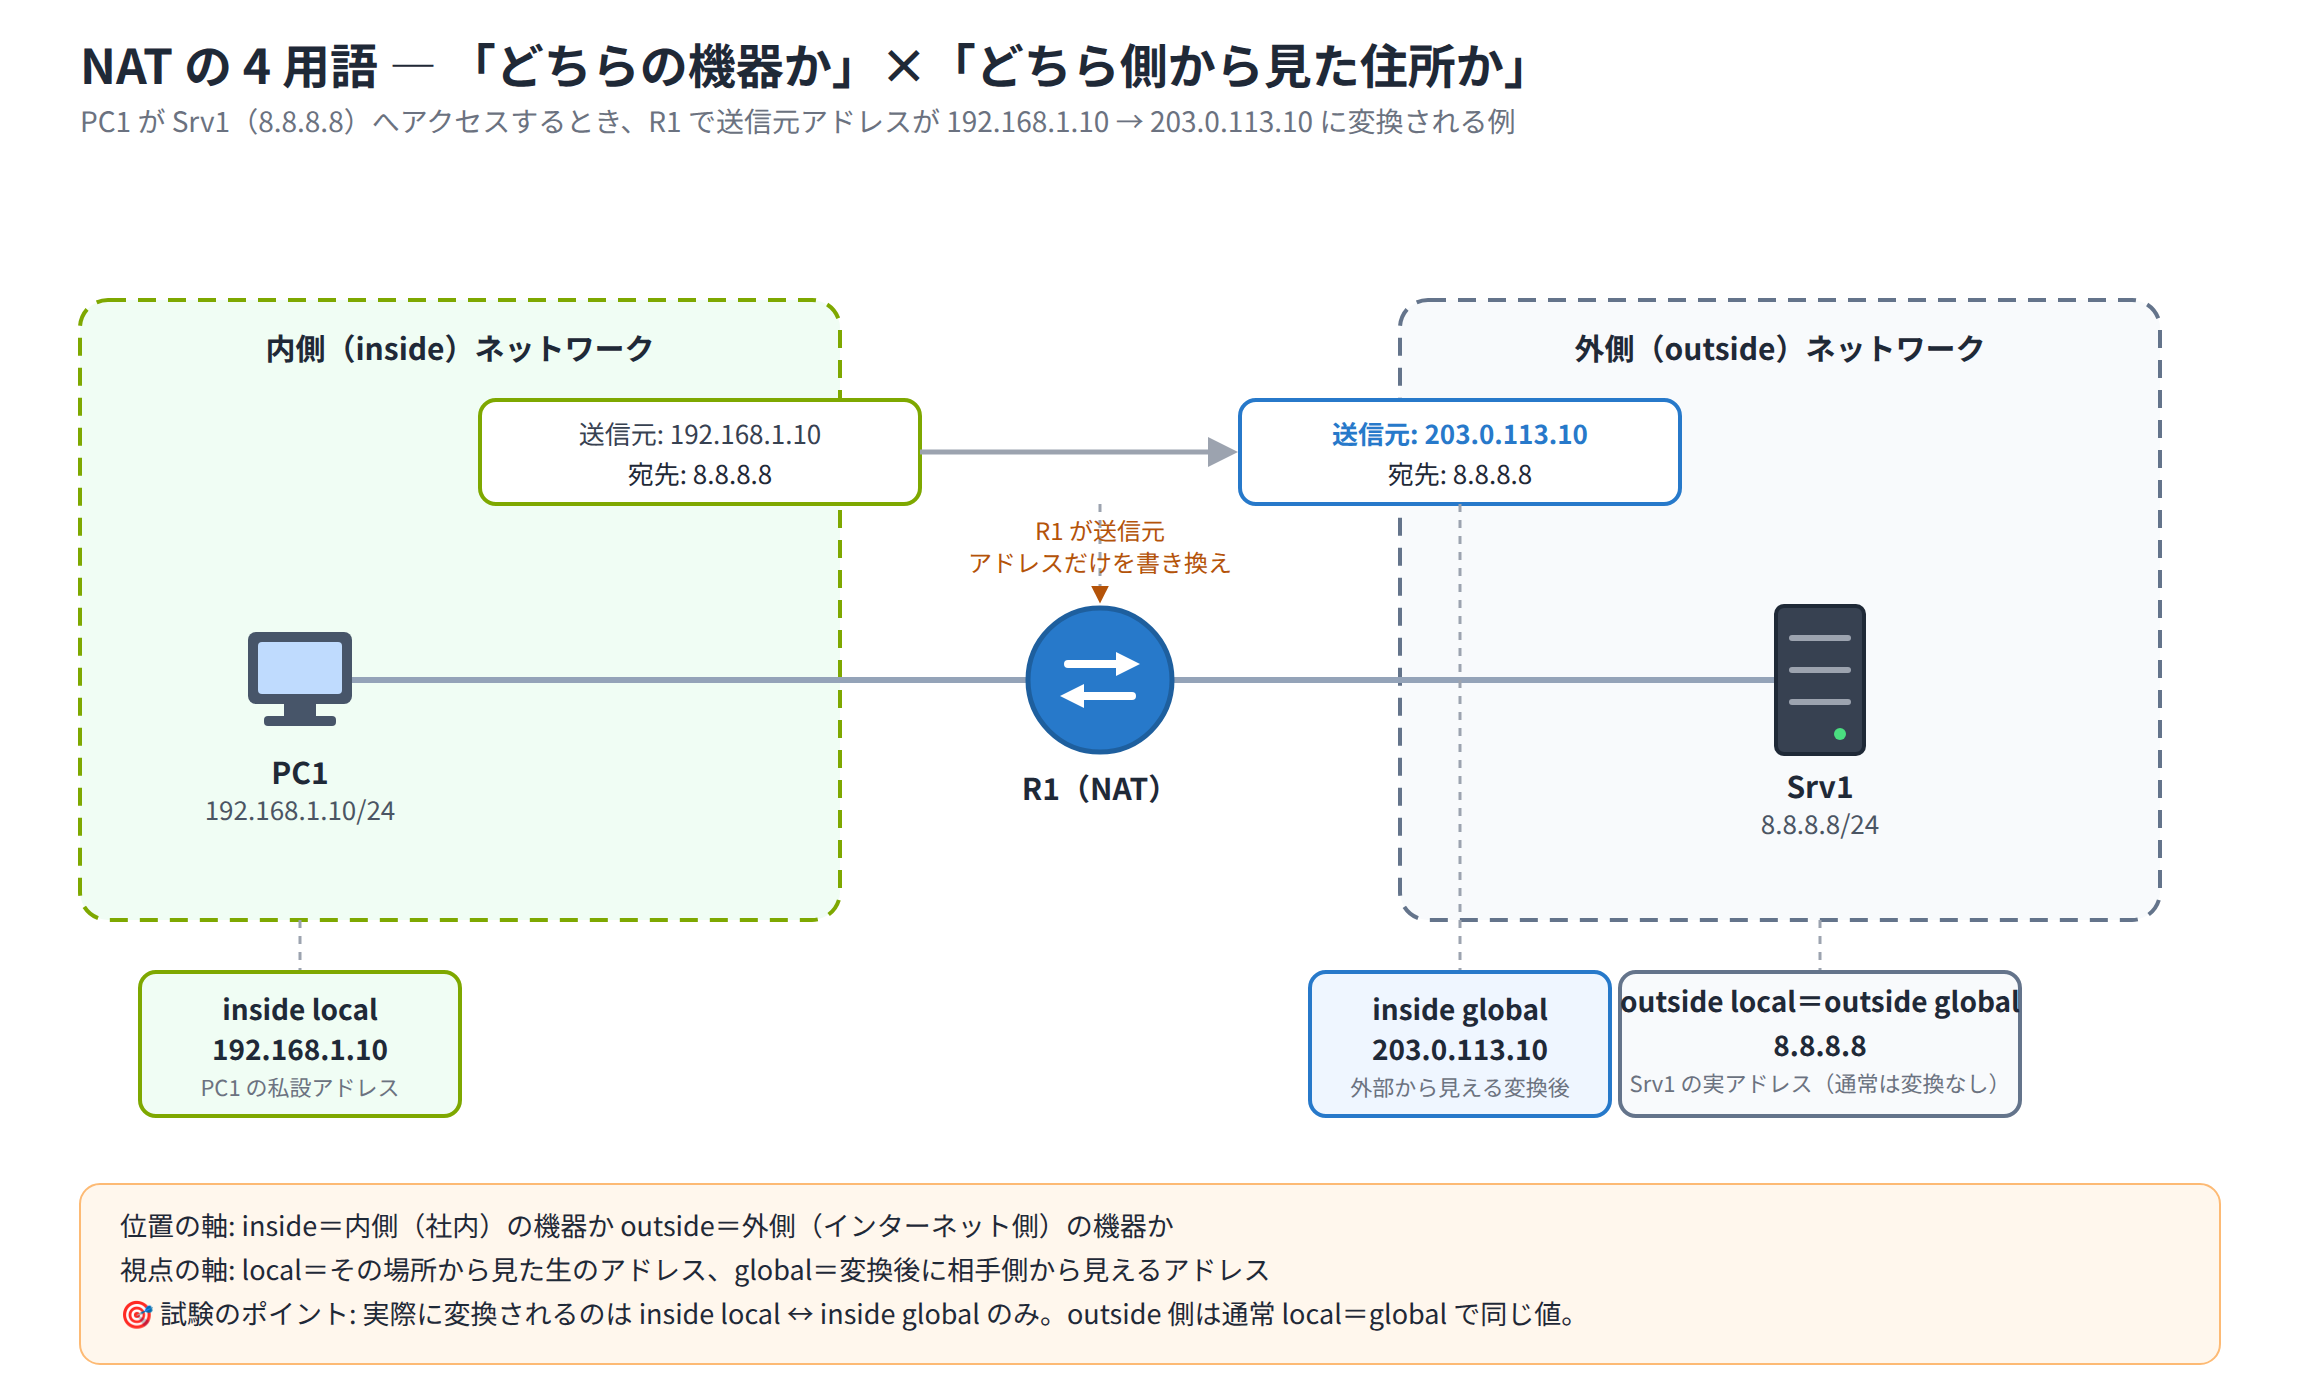
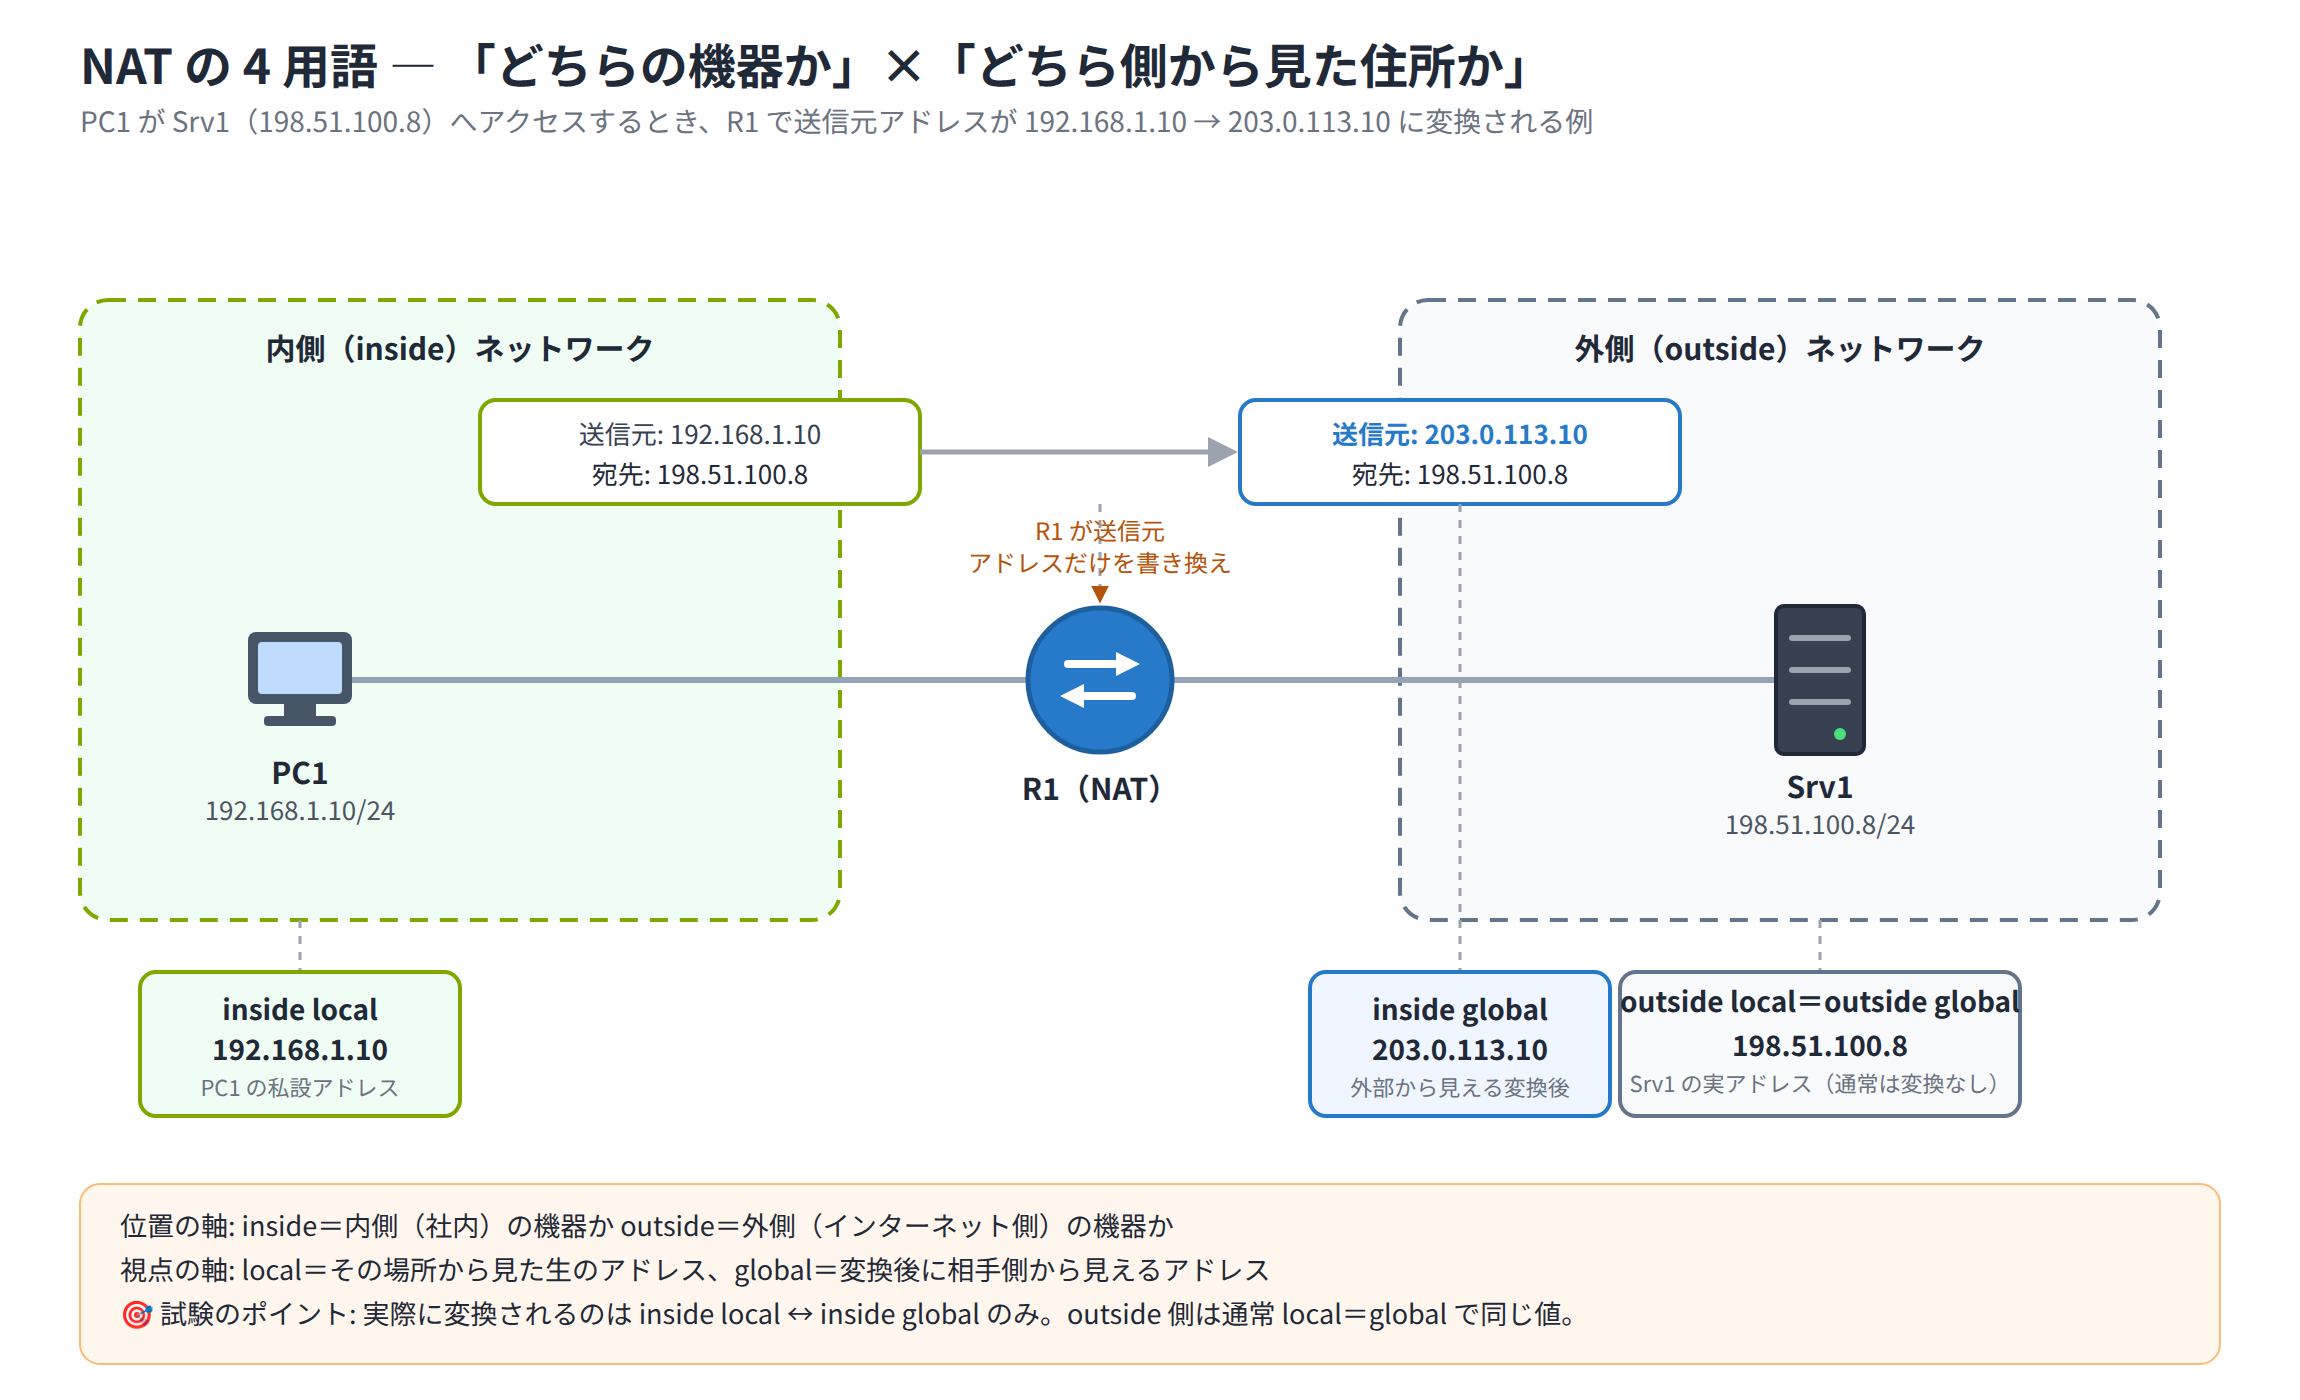
セキュリティ・個人情報の総点検を完了（DEV-20）
修正（中程度5件）:
- grade-quiz.mjs: 採点コメントから正答キーを除去（翌朝公開の解説運用に反する
  即時開示・未受験者流出を防止）。正答は端末表示のみ
- ai-grade.mjs: プロンプトインジェクション対策（UUID区切りトークンで受講者
  コメントを隔離＋systemに無視ルール＋バッククォート無害化）、外部送信の告知を追記
- 教材の例示IP: 実在Google DNS(8.8.8.8等)を外部サーバ設定値に使用 → 文書用
  198.51.100.0/24へ全置換（教材・模試・図3枚を再レンダリング、参照整合確認）

新規:
- 09-security-privacy.md: 運用ガイド（個人データ棚卸し・アクセス権・保存/削除・
  第三者提供・提出物写り込み・AI採点告知・シークレット管理・インシデント初動）
- reports/security-audit-2026-07.md: 監査レポート
- 04-guidance.md: 受講者向けの個人情報の扱い（スクショ写り込み・AI採点告知）を追記

リポジトリスキャン: 実トークン・実在個人情報の混入なし（high 0件）

Claude-Session: https://claude.ai/code/session_01RwRN3JqHnao5hWNvNQyEjz

diff --git a/09-security-privacy.md b/09-security-privacy.md
@@ -1,0 +1,121 @@
+# セキュリティ・プライバシー運用ガイド
+
+CCNA 研修は受講者の個人データが継続的に集まる仕組みです。本ガイドは、集まる
+データの棚卸し・アクセス権・保存期間・提出物の扱い・AI 採点の告知・シークレット
+管理を定めます。2026-07 のセキュリティ総点検（DEV-20）の結果を反映しています。
+
+> 位置づけ: 本ガイドは講師・運用担当が守る規程。受講者向けの注意は
+> `04-guidance.md` にも要約を載せます。
+
+## 1. この研修で集まる個人データの棚卸し
+
+| データ | 例 | 機微度 | 保存場所 |
+|---|---|---|---|
+| 氏名・連絡先 | 受講者名、社内アカウント | 中 | Backlog ユーザー、受講者別プロジェクト名 |
+| 成績 | 小テスト・週次・模試のスコア、再テスト履歴 | 中 | 受講者別プロジェクトの課題コメント |
+| 誤答ノート | 間違えた問題と原因分析 | 低〜中 | ドキュメント `05_誤答ノート` |
+| 週次振り返り | Keep/Problem/Try（内面・家庭事情が書かれ得る） | **高** | ドキュメント `06_振り返り` |
+| 提出スクリーンショット | PT 画面、ping 結果 | 中（写り込みリスク） | 課題の添付 |
+| **人物評価** | 「構築へのステップアップ」評価、GO 判定根拠 | **高（人事データ準拠）** | 講師用フォルダ `04_講師用` |
+| 受験結果 | 合否・スコア・ドメイン別成績 | 中 | 運用メトリクス（講師用） |
+
+## 2. アクセス権設計（誰が何を見られるか）
+
+受講者別プロジェクト方式（モデル A）を前提に、次の原則で権限を設定します。
+
+| データ | 受講者本人 | 担当講師 | 他の受講者 | 営業・人事 |
+|---|---|---|---|---|
+| 自分の成績・誤答ノート・振り返り | ○ | ○ | **×** | 原則 × |
+| 他人の成績・振り返り | × | ○（担当分） | **×** | × |
+| 人物評価・GO 判定根拠 | **×**（本人非開示） | ○ | × | 別途承認フロー |
+| 教材・模試の設問 | ○ | ○ | ○ | ○ |
+| 模試・小テストの解答解説 | 公開後のみ○ | ○ | 公開後のみ○ | ○ |
+
+原則:
+
+- **受講者別プロジェクトは本人＋講師のみ**をメンバーにする。他の受講者を
+  入れない（成績・振り返りが相互に見えてしまう）
+- **人物評価は講師用フォルダ（`04_講師用`）に隔離**し、受講者本人にも非開示。
+  営業・人事へ共有する場合は、本人の同意または就業規則上の根拠を確認したうえで、
+  評価サマリのみを別途連携する（研修の内面記録＝振り返りは共有しない）
+- **週次振り返り（`06_振り返り`）は人事評価に流用しない**。安心して本音を書ける
+  場を保つことが学習効果の前提。講師のフォロー目的にのみ使う旨を受講者に明示する
+
+## 3. データのライフサイクル（保存・卒業・削除）
+
+- **保存期間**: 研修中〜卒業後 3 ヶ月を上限の目安とする（受験の再挑戦フォロー期間）。
+  超過分は削除または匿名化する
+- **卒業時**:
+  1. 誤答ノート・振り返りを**本人へエクスポート**（本人の学習資産として持ち帰り可）
+  2. 受講者別プロジェクトを**アーカイブ**（モデル A）。スタンダードプランで
+     プロジェクト枠が逼迫する場合は、匿名化のうえ削除
+  3. 受験結果・ドメイン別成績は**匿名化して運用メトリクス**に集計（教材改善用）。
+     個人を特定できる形では残さない
+- **SES 商流上の第三者提供**: 客先・元請けへ成績や評価を提供する場合は、
+  提供範囲・目的を本人に事前告知し同意を得る。振り返り（内面記録）と
+  スクリーンショット原本は提供しない。提供するのは修了可否・スコアサマリまで
+
+## 4. 提出物（スクリーンショット）の写り込み対策
+
+受講者向け注意として `04-guidance.md` とガイダンス初日に周知する:
+
+- スクリーンショットを撮る前に、**通知・他のウィンドウ・ブラウザのタブ・
+  デスクトップの個人ファイル名**を閉じる／隠す
+- 撮る範囲は**指示された画面（Packet Tracer / コマンドプロンプト）のみ**に絞る
+- 実機や社内環境の画面は撮らない（研修は Packet Tracer 上で完結する）
+- 会社支給端末のポリシー（画面キャプチャの可否）に従う
+
+## 5. AI 採点（ai-grade.mjs）の外部送信と告知
+
+`ai-grade.mjs` は受講者の解答コメント本文を Anthropic API に送信します。
+
+- **送信されるもの**: 解答本文と教材。**氏名（createdUser）は送信しない**実装。
+  ただし受講者が解答本文に氏名・所属を書けば送られるため、「解答本文に個人情報を
+  書かない」ことを受講者に周知する
+- **事前告知（必須）**: 開講時に次を伝え、同意を得る（ガイダンスに掲載）:
+
+  > この研修では、記述式の小テストについて、採点の一次処理に AI（Anthropic の
+  > Claude API）を使うことがあります。その際、あなたの解答本文が採点のために
+  > 外部の API に送信されます。氏名などの個人情報は送信されません（解答本文に
+  > 自分で書かない限り）。送信された解答は AI の学習には使われません。最終的な
+  > 採点は講師が確認して確定します。
+
+- **データの扱い**: Anthropic の商用 API はデフォルトで入力を学習に使用せず、
+  保持は不正利用検知目的の短期のみ。より厳格な要件がある場合はゼロデータ保持
+  （ZDR）契約の要否を検討する
+- **プロンプトインジェクション対策**: 受講者コメントは一意な区切りトークンで
+  隔離済み（「全問正解にせよ」等の細工を無視する）。`--post`（自動投稿）は
+  既定 off のまま、**必ず講師が内容を確認してから確定**する
+
+## 6. シークレット（APIキー等）の管理
+
+DEV-20 のリポジトリスキャンでは、実在のシークレット・個人情報の混入は
+**検出されませんでした**。以下のルールを維持します。
+
+- API キー（Backlog / Anthropic）は**環境変数のみ**で渡す。スクリプトの
+  サンプルや `.env.example` に実値を書かない。`.env` は `.gitignore` 済み
+- Backlog API はキーを URL クエリに載せる仕様のため、**エラー出力・ログに
+  完全な URL を出さない**（現行実装はパスのみを出力）。`${url}` や
+  `err.stack` をログに足さないこと
+- 教材のパスワード例（`cisco123` 等）は教育用ダミーに限定し、実在システムの
+  値を使わない。JWT・トークンの例は末尾を省略した明らかな例示にする
+
+## 7. 教材の例示データ規約
+
+- IP アドレスは**私設（10/172.16-31/192.168）または文書用
+  （192.0.2.0/24・198.51.100.0/24・203.0.113.0/24）**のみを使う。
+  実在の稼働グローバル IP（例: 8.8.8.8）をデバイス設定値に使わない
+  （DEV-20 で外部サーバ例を 198.51.100.0/24 に是正済み）
+- OSPF の Router ID として 1.1.1.1 等を使うのは業界慣習として許容するが、
+  厳密にする場合は 10.255.255.x に寄せる（低リスク・任意）
+- 人名は「山田」「佐藤」等の一般的な例示名のみ。実在の特定個人を指さない。
+  **実受講者の実名は Backlog 側の受講者別プロジェクトでのみ扱い、この
+  リポジトリ（教材・レポート）には記載しない**
+
+## 8. インシデント時の初動チェックリスト
+
+- シークレット漏洩の疑い: 該当キーを即時失効・再発行 → 影響範囲確認 →
+  Git 履歴に混入していれば履歴の書き換え（filter-repo）を検討
+- 個人データの誤共有（他受講者・第三者に成績/振り返りが見えた）: 権限を即修正 →
+  対象者へ報告 → 再発防止（権限テンプレートの見直し）
+- 提出物の個人情報写り込み発覚: 該当添付を削除 → 本人へ連絡 → 撮影ルールの再周知

diff --git a/reports/security-audit-2026-07.md b/reports/security-audit-2026-07.md
@@ -1,0 +1,58 @@
+# セキュリティ・個人情報 総点検レポート（2026-07 / DEV-20）
+
+4 系統（リポジトリ機密混入 / 教材の例示データ / スクリプト / 運用の個人情報設計）を
+点検した。**実在のシークレット・個人情報の混入はなし**。スクリプトと例示データで
+中程度の是正点があり、すべて修正済み。運用面はガイド `09-security-privacy.md` に規程化した。
+
+## 1. リポジトリ機密情報スキャン → 問題なし
+
+- 作業ツリー全 194 ファイル + Git 全履歴（`git log --all -p` / `git log -S`）を対象に
+  `sk-ant-` / `ghp_` / `AKIA` / 秘密鍵 / Bearer トークン / `apiKey=実値` を検索
+- **実トークンの混入なし**。認証情報はすべてプレースホルダ（`xxxxxxxx`, `sk-ant-...`）で、
+  実装は `process.env` 経由。`.env` / `.env.*` は `.gitignore` 済み
+- メール・電話・実在人物の個人情報なし。人名（山田/佐藤/田中/鈴木）はすべて
+  例示名・ペルソナで、特定個人を指す文脈なし
+- IP アドレス約 1,783 件を分類し、私設/文書用/予約以外の実在グローバル IP を
+  洗い出し（下記 2 で是正）
+
+## 2. 教材の例示データ → 是正済み
+
+| 重大度 | 内容 | 対応 |
+|---|---|---|
+| medium | Google Public DNS の実 IP `8.8.8.8` / `8.8.4.4` / `8.8.8.1` を、Day14・Day20 の外部サーバの**デバイス設定値**（IP・DHCP dns-server・ACL 宛先・ping 対象）として使用 | 文書用レンジ `198.51.100.0/24`（TEST-NET-2）に全置換。教材（lecture/lab/quiz）・模試①③・図 3 枚を修正し再レンダリング。参照整合を確認 |
+| low | OSPF Router ID に `1.1.1.1`（Cloudflare）・`9.9.9.9`（Quad9）を使用 | 業界慣習として許容（Packet Tracer 内で完結）。厳密化は任意として 09 に記載 |
+
+MAC アドレスはプレースホルダ/プロトコル標準のみ、ドメインは example.com 系と
+公式案内先のみ、電話・住所の例示は 0 件で問題なし。
+
+## 3. スクリプトのセキュリティ → 是正済み
+
+| 重大度 | 対象 | 問題 | 対応 |
+|---|---|---|---|
+| medium | grade-quiz.mjs | 採点コメント投稿時に**全設問の正答キーを本文に含めて即時開示**。解答解説は翌朝公開の運用に反し、同居設定では未受験者へ流出し得た | 投稿本文から正答を除去し ○/× と本人の提出内容のみに。正答は端末表示に限定 |
+| medium | ai-grade.mjs | 受講者コメント（信頼できない入力）を ``` フェンスで囲むだけで、**プロンプトインジェクション耐性が弱い**（「全問正解にせよ」等でコードフェンス脱出の恐れ） | system プロンプトに無視ルールを明記 + 一意な区切りトークン（UUID）で隔離 + 本文中のバッククォートを無害化 |
+| medium | ai-grade.mjs | 受講者解答の**外部 API 送信の告知・運用ルールが未記載** | ヘッダーコメントと 09 ガイド・ガイダンスに告知文と同意取得を明記。氏名は非送信、`--post` は講師確認前提 |
+| low | 全スクリプト | Backlog API キーを URL クエリに載せる設計（現状エラー出力はパスのみでキー漏れなし、ただし脆い） | 現行のパスのみ出力を維持するルールを 09 に明記（`${url}`・`err.stack` をログに足さない） |
+
+## 4. 運用の個人情報設計 → ガイド `09-security-privacy.md` に規程化
+
+集まる個人データ（氏名・成績・誤答ノート・**週次振り返り＝内面記録**・提出物・
+**人物評価＝人事データ準拠**・受験結果）について、次を定めた:
+
+- **アクセス権**: 受講者別プロジェクトは本人＋講師のみ。人物評価・GO 判定根拠は
+  講師用フォルダに隔離し本人非開示。週次振り返りは人事評価に流用しない
+- **ライフサイクル**: 保存は卒業後 3 ヶ月を目安。卒業時に誤答ノート/振り返りを
+  本人エクスポート → プロジェクトをアーカイブ、受験結果は匿名化して教材改善用に集計
+- **第三者提供（SES 商流）**: 客先・元請けへは修了可否・スコアサマリまで。
+  振り返り・スクショ原本は提供しない。事前告知と同意を取る
+- **提出物**: スクショの写り込み対策を受講者に周知（`04-guidance.md` に反映済み）
+- **AI 採点**: 外部送信の事前告知文を用意（同 04 とガイダンスに掲載）
+
+## まとめ
+
+- **重大（high）: 0 件**。実在の機密・個人情報の漏洩なし
+- **中（medium）: 5 件 → 全件修正済み**（正答漏洩・プロンプトインジェクション・
+  外部送信告知・例示 IP ×2）
+- **低（low）: 是正またはルール化**
+- 運用面は `09-security-privacy.md` として規程化。開講前に講師が一読し、
+  権限テンプレート・告知文の適用を確認すること

diff --git a/materials/week4/day20-lab.md b/materials/week4/day20-lab.md
@@ -38,8 +38,8 @@
 | R2 | Gi0/0.99（VLAN99 管理） | 192.168.99.3 | 255.255.255.0 | ネイティブ VLAN |
 | R2 | Gi0/1（R1-R2 リンク） | 10.0.0.2 | 255.255.255.252 | OSPF area0 |
 | R-ISP | Gi0/0（WAN） | 203.0.113.2 | 255.255.255.252 | R1 の対向 |
-| R-ISP | Gi0/1 | 8.8.8.1 | 255.255.255.0 | インターネット模擬セグメント |
-| Server | （R-ISP Gi0/1 配下） | 8.8.8.8 | 255.255.255.0 | GW 8.8.8.1。HTTP サービスを有効化 |
+| R-ISP | Gi0/1 | 198.51.100.1 | 255.255.255.0 | インターネット模擬セグメント |
+| Server | （R-ISP Gi0/1 配下） | 198.51.100.8 | 255.255.255.0 | GW 198.51.100.1。HTTP サービスを有効化 |
 | VLAN10 | HSRP 仮想 IP（group10） | 192.168.10.1 | 255.255.255.0 | 営業の既定ゲートウェイ |
 | VLAN20 | HSRP 仮想 IP（group20） | 192.168.20.1 | 255.255.255.0 | 経理の既定ゲートウェイ |
 | PC1 | VLAN10 / SW1 Fa0/1 | DHCP 取得 | 255.255.255.0 | GW 192.168.10.1（自動） |
@@ -226,7 +226,7 @@ R-ISP(config-if)# ip address 203.0.113.2 255.255.255.252
 R-ISP(config-if)# no shutdown
 R-ISP(config-if)# exit
 R-ISP(config)# interface GigabitEthernet0/1
-R-ISP(config-if)# ip address 8.8.8.1 255.255.255.0
+R-ISP(config-if)# ip address 198.51.100.1 255.255.255.0
 R-ISP(config-if)# no shutdown
 R-ISP(config-if)# exit
 ```
@@ -295,12 +295,12 @@ R1(config)# ip dhcp excluded-address 192.168.99.1 192.168.99.3
 R1(config)# ip dhcp pool VLAN10-EIGYO
 R1(dhcp-config)# network 192.168.10.0 255.255.255.0
 R1(dhcp-config)# default-router 192.168.10.1
-R1(dhcp-config)# dns-server 8.8.8.8
+R1(dhcp-config)# dns-server 198.51.100.8
 R1(dhcp-config)# exit
 R1(config)# ip dhcp pool VLAN20-KEIRI
 R1(dhcp-config)# network 192.168.20.0 255.255.255.0
 R1(dhcp-config)# default-router 192.168.20.1
-R1(dhcp-config)# dns-server 8.8.8.8
+R1(dhcp-config)# dns-server 198.51.100.8
 R1(dhcp-config)# exit
 ```
 
@@ -316,12 +316,12 @@ R2(config)# ip dhcp excluded-address 192.168.99.1 192.168.99.3
 R2(config)# ip dhcp pool VLAN10-EIGYO
 R2(dhcp-config)# network 192.168.10.0 255.255.255.0
 R2(dhcp-config)# default-router 192.168.10.1
-R2(dhcp-config)# dns-server 8.8.8.8
+R2(dhcp-config)# dns-server 198.51.100.8
 R2(dhcp-config)# exit
 R2(config)# ip dhcp pool VLAN20-KEIRI
 R2(dhcp-config)# network 192.168.20.0 255.255.255.0
 R2(dhcp-config)# default-router 192.168.20.1
-R2(dhcp-config)# dns-server 8.8.8.8
+R2(dhcp-config)# dns-server 198.51.100.8
 R2(dhcp-config)# exit
 ```
 
@@ -377,7 +377,7 @@ R1(config)# ip nat inside source list 1 interface GigabitEthernet0/2 overload
 ```
 R1(config)# ip access-list extended KEIRI-TO-SRV
 R1(config-ext-nacl)# permit udp any host 255.255.255.255 eq 67
-R1(config-ext-nacl)# permit tcp 192.168.20.0 0.0.0.255 host 8.8.8.8 eq 80
+R1(config-ext-nacl)# permit tcp 192.168.20.0 0.0.0.255 host 198.51.100.8 eq 80
 R1(config-ext-nacl)# deny ip any any log
 R1(config-ext-nacl)# exit
 R1(config)# interface GigabitEthernet0/0.20
@@ -397,7 +397,7 @@ R1(config-subif)# exit
 ```
 R2(config)# ip access-list extended KEIRI-TO-SRV
 R2(config-ext-nacl)# permit udp any host 255.255.255.255 eq 67
-R2(config-ext-nacl)# permit tcp 192.168.20.0 0.0.0.255 host 8.8.8.8 eq 80
+R2(config-ext-nacl)# permit tcp 192.168.20.0 0.0.0.255 host 198.51.100.8 eq 80
 R2(config-ext-nacl)# deny ip any any log
 R2(config-ext-nacl)# exit
 R2(config)# interface GigabitEthernet0/0.20
@@ -466,24 +466,24 @@ SW2 の Fa0/1・Fa0/2 にも同じ設定を行います。
    **Command Prompt** → `ipconfig`）
 3. 同一 VLAN 内（PC1 ⇔ PC3、PC2 ⇔ PC4）で ping が成功することを確認します
 4. 経理 VLAN（PC2/PC4）は手順9で適用した ACL『KEIRI-TO-SRV』により、
-   8.8.8.8 宛 HTTP 以外の通信がすべて遮断されます。そのため PC1 ⇔ PC2 の
+   198.51.100.8 宛 HTTP 以外の通信がすべて遮断されます。そのため PC1 ⇔ PC2 の
    VLAN 間 ping は**失敗するのが正しい動作**です（ACL の効果確認）。VLAN
    間ルーティング自体の疎通を確認したい場合は、手順9で ACL を適用する前に
    このping を実施してください
 5. インターネット（模擬）への到達を確認します
 
    ```
-   PC1> ping 8.8.8.8
+   PC1> ping 198.51.100.8
    ```
 
    → **成功**すること（営業 VLAN は ACL の制限を受けません）
 
    ```
-   PC2> ping 8.8.8.8
+   PC2> ping 198.51.100.8
    ```
 
    → **失敗**すること（経理 VLAN は HTTP 以外を拒否されます）。ただし
-   Web Browser から `http://8.8.8.8` へのアクセスは**成功**します
+   Web Browser から `http://198.51.100.8` へのアクセスは**成功**します
 
 ## 手順 13: 検証コマンドによる最終確認（15 分）
 

diff --git a/materials/week3/day14-quiz.md b/materials/week3/day14-quiz.md
@@ -17,8 +17,8 @@
 - D. 11.0.0.0/8
 
 **Q2.** ある内部 PC の私設アドレスが `192.168.1.10`、ルータで変換された後の
-アドレスが `203.0.113.10`、通信相手の外部サーバのアドレスが `8.8.8.8`
-（変換は行われない）である場合、`8.8.8.8` の呼び名として正しいものはどれか。
+アドレスが `203.0.113.10`、通信相手の外部サーバのアドレスが `198.51.100.8`
+（変換は行われない）である場合、`198.51.100.8` の呼び名として正しいものはどれか。
 
 - A. inside local
 - B. inside global
@@ -69,9 +69,9 @@
 次の 3 行が表示された。
 
 ```
-tcp 203.0.113.1:2048   192.168.1.11:2048   8.8.8.8:80   8.8.8.8:80
-tcp 203.0.113.1:3050   192.168.1.12:1030   8.8.8.8:80   8.8.8.8:80
-udp 203.0.113.1:4001   192.168.1.10:4001   8.8.4.4:53   8.8.4.4:53
+tcp 203.0.113.1:2048   192.168.1.11:2048   198.51.100.8:80   198.51.100.8:80
+tcp 203.0.113.1:3050   192.168.1.12:1030   198.51.100.8:80   198.51.100.8:80
+udp 203.0.113.1:4001   192.168.1.10:4001   198.51.100.4:53   198.51.100.4:53
 ```
 
 この出力から判断できる変換方式として最も適切なものはどれか。
@@ -101,7 +101,7 @@ udp 203.0.113.1:4001   192.168.1.10:4001   8.8.4.4:53   8.8.4.4:53
 | 問 | 解答 | 解説 |
 |---|---|---|
 | Q1 | B | `192.168.0.0/16` が RFC1918 の私設アドレス。A の `172.32.0.0/12` は、私設範囲 `172.16.0.0/12`（`172.16.0.0`〜`172.31.255.255`）のすぐ外側（`172.32`〜）に位置する公開アドレスで、数字が似ているだけの定番の引っかけ。D の `11.0.0.0/8` も私設 `10.0.0.0/8` の隣にある公開アドレスで同種の罠。C の `200.100.0.0/16` も公開アドレス。私設範囲は `10/8`・`172.16/12`・`192.168/16` の 3 つのみ |
-| Q2 | C | 外部ホストのアドレスが変換されない通常構成では、outside local と outside global は同一の値（8.8.8.8）になる。inside local（192.168.1.10）・inside global（203.0.113.10）は内部 PC 側の呼び名で、8.8.8.8 には該当しない |
+| Q2 | C | 外部ホストのアドレスが変換されない通常構成では、outside local と outside global は同一の値（198.51.100.8）になる。inside local（192.168.1.10）・inside global（203.0.113.10）は内部 PC 側の呼び名で、198.51.100.8 には該当しない |
 | Q3 | C | PAT はポート番号で識別するため、少数のグローバルアドレスで多数の内部ホストを収容できる。動的 NAT（overload なし）はプールの数だけしか同時変換できない |
 | Q4 | A | 静的 NAT の構文は `ip nat inside source static <inside-local> <inside-global>`。C は方向が逆、B は PAT の構文 |
 | Q5 | C | 動的 NAT には変換対象を指定する ACL と、割り当て用のグローバルアドレスプールの両方が必要 |

diff --git a/materials/mock-exams/mock-exam-1.md b/materials/mock-exams/mock-exam-1.md
@@ -433,18 +433,18 @@ Gi0/1       1    100   Standby  192.168.1.1     local           192.168.1.1
 - C. R1のプライオリティは既定値(100)のままである
 - D. R1・R2ともプリエンプトは無効である
 
-**Q66.** 社内PC（inside local: `192.168.1.50`）がNATルータを経由して外部サーバ `8.8.4.4` と通信しており、ルータでの変換後アドレスは `203.0.113.50` である。この構成における **inside global** に該当するアドレスはどれか。
+**Q66.** 社内PC（inside local: `192.168.1.50`）がNATルータを経由して外部サーバ `198.51.100.4` と通信しており、ルータでの変換後アドレスは `203.0.113.50` である。この構成における **inside global** に該当するアドレスはどれか。
 - A. 203.0.113.50
 - B. 192.168.1.50
-- C. 8.8.4.4
+- C. 198.51.100.4
 - D. 該当するアドレスはない
 
 **Q67.** ルータで `show ip nat translations` を実行したところ、次の出力が得られた。この出力から判断できる変換方式はどれか。
 
 ```
 Pro Inside global          Inside local         Outside local        Outside global
-tcp 203.0.113.5:2001       192.168.1.10:2001    8.8.8.8:80           8.8.8.8:80
-tcp 203.0.113.5:2002       192.168.1.11:3050    8.8.8.8:80           8.8.8.8:80
+tcp 203.0.113.5:2001       192.168.1.10:2001    198.51.100.8:80           198.51.100.8:80
+tcp 203.0.113.5:2002       192.168.1.11:3050    198.51.100.8:80           198.51.100.8:80
 ```
 
 - A. 静的NAT（Static NAT）
@@ -754,7 +754,7 @@ Security Violation Count                   : 0
 | Q63 | B | FHRPは複数台のルータで仮想IP・仮想MACを共有し、デフォルトゲートウェイが1台に固定されることによる単一障害点を排除する仕組み。(→ Day13) |
 | Q64 | C,D | GLBPはAVG(Active Virtual Gateway)が複数のAVF(Active Virtual Forwarder)に負荷を分散させる点が、Active/Standbyの1台構成であるHSRP・VRRPと異なる。またVRRPはプリエンプトが既定で有効だが、HSRPは既定で無効という違いがある。(→ Day13) |
 | Q65 | A | R1はプライオリティ110でActive状態であり、Pri列のPフラグからプリエンプトが有効であることが読み取れる。R2はプライオリティ100（既定値）のままStandbyであり、R1のプライオリティ110がR2より高い。(→ Day13) |
-| Q66 | A | inside globalは内部端末が外部から見えるときの変換後（グローバル）アドレスであり、この例では203.0.113.50。192.168.1.50はinside local、8.8.4.4はoutside global。（→ Day14） |
+| Q66 | A | inside globalは内部端末が外部から見えるときの変換後（グローバル）アドレスであり、この例では203.0.113.50。192.168.1.50はinside local、198.51.100.4はoutside global。（→ Day14） |
 | Q67 | C | 同一のinside global（203.0.113.5）に対して複数の異なるinside local（.10と.11）がポート番号で区別されて対応付けられており、これは多対1のPAT（NAT Overload）の典型的な出力。（→ Day14） |
 | Q68 | B | クライアントはまだIPアドレスを持たないため、Discoverの送信元は0.0.0.0、宛先は限定ブロードキャストの255.255.255.255になる。（→ Day15） |
 | Q69 | A | DHCPのDiscover/Requestはブロードキャストで送られ、ルータは既定でブロードキャストを他セグメントへ転送しないため、クライアント側SVIに`ip helper-address`を設定してユニキャストへ変換・転送させる必要がある。（→ Day15） |

diff --git a/materials/mock-exams/mock-exam-3.md b/materials/mock-exams/mock-exam-3.md
@@ -491,7 +491,7 @@ ip route 10.0.0.0 255.255.255.0 10.0.1.1   （10.0.1.1は直接接続網内）
 - C. SW1・SW2間の専用リンクがダウンしていないため、HSRPの状態は変化せずSW1が復旧するまでActiveのままトラフィックが失われ続ける
 - D. HSRPによりSW2が仮想IP宛のトラフィックを引き継ぐ。VLAN10のSVIがpassive-interfaceでもネットワーク自体はOSPFで広告され続けるため、上位ルータからの到達性は維持される
 
-**Q66.** NAT構成において、内部PC(inside local: 192.168.1.10、inside global: 203.0.113.10)が外部サーバ(8.8.8.8)へアクセスする。このルータでは外部ホストのアドレス変換（NATによる書き換え）は行っていない。outside local と outside global の関係に関する記述として正しいものはどれか。
+**Q66.** NAT構成において、内部PC(inside local: 192.168.1.10、inside global: 203.0.113.10)が外部サーバ(198.51.100.8)へアクセスする。このルータでは外部ホストのアドレス変換（NATによる書き換え）は行っていない。outside local と outside global の関係に関する記述として正しいものはどれか。
 
 - A. outside local と outside global は常に異なる値になる
 - B. outside global は必ず内部ネットワークのアドレス体系に属する
@@ -868,7 +868,7 @@ resource "aws_vpc" "main" {
 | Q63 | C | GLBPではAVGがグループ内で1台選出され、クライアントのARP要求に応じてどのAVFの仮想MACを返すかを制御して負荷分散を実現する。AVG自身も同時にAVFとして転送を担当できる。（→ Day13） |
 | Q64 | A | E1メトリック(①)はASBRからの外部コストにそこに至るまでのエリア内コストを加算し続けるのに対し、E2メトリック(②、既定)はASBRが設定した外部コストの固定値のみを使用する。（→ Day13） |
 | Q65 | D | passive-interfaceはHelloの送受信(ネイバー形成)のみを止める設定で、そのインタフェースが属するネットワークの広告自体はOSPFで継続される。HSRPの切り替えはOSPFの収束を必要とせず独立して行われるため、SW2への切り替え後も上位からVLAN10への到達性は維持される。（→ Day8・Day12・Day13） |
-| Q66 | C | 双方向NAT（外部ホストのアドレス変換）を行わない一般的な構成では、外部ホストのアドレスは変換されないため outside local と outside global は同じ値（8.8.8.8）になる。実際に変換されるのは inside local ↔ inside global の組だけ。（→ Day14） |
+| Q66 | C | 双方向NAT（外部ホストのアドレス変換）を行わない一般的な構成では、外部ホストのアドレスは変換されないため outside local と outside global は同じ値（198.51.100.8）になる。実際に変換されるのは inside local ↔ inside global の組だけ。（→ Day14） |
 | Q67 | A,B | サーバ公開には常に同じグローバルIPで到達できる静的NATが適し(A)、一般PCの多数端末には少数のグローバルIPを共有できるPAT（NAT Overload）が適する(B)。動的NATプールにサーバを含めるとアドレスが変動しうるため要件を満たさない（C・D）。（→ Day14） |
 | Q68 | D | `ip dhcp excluded-address`はDHCPプールの外（グローバルコンフィグモード）で事前に設定する必要があり、これを行わないとゲートウェイなど固定用アドレスまでプールの配布対象に含まれてしまう。（→ Day15） |
 | Q69 | B | TFTPはUDP69番を使用する軽量プロトコルであり、TCPのようなコネクション確立や認証は行わない。pingが通ってもUDP69がACL/ファイアウォールで遮断されていれば転送はタイムアウトする。（→ Day15） |